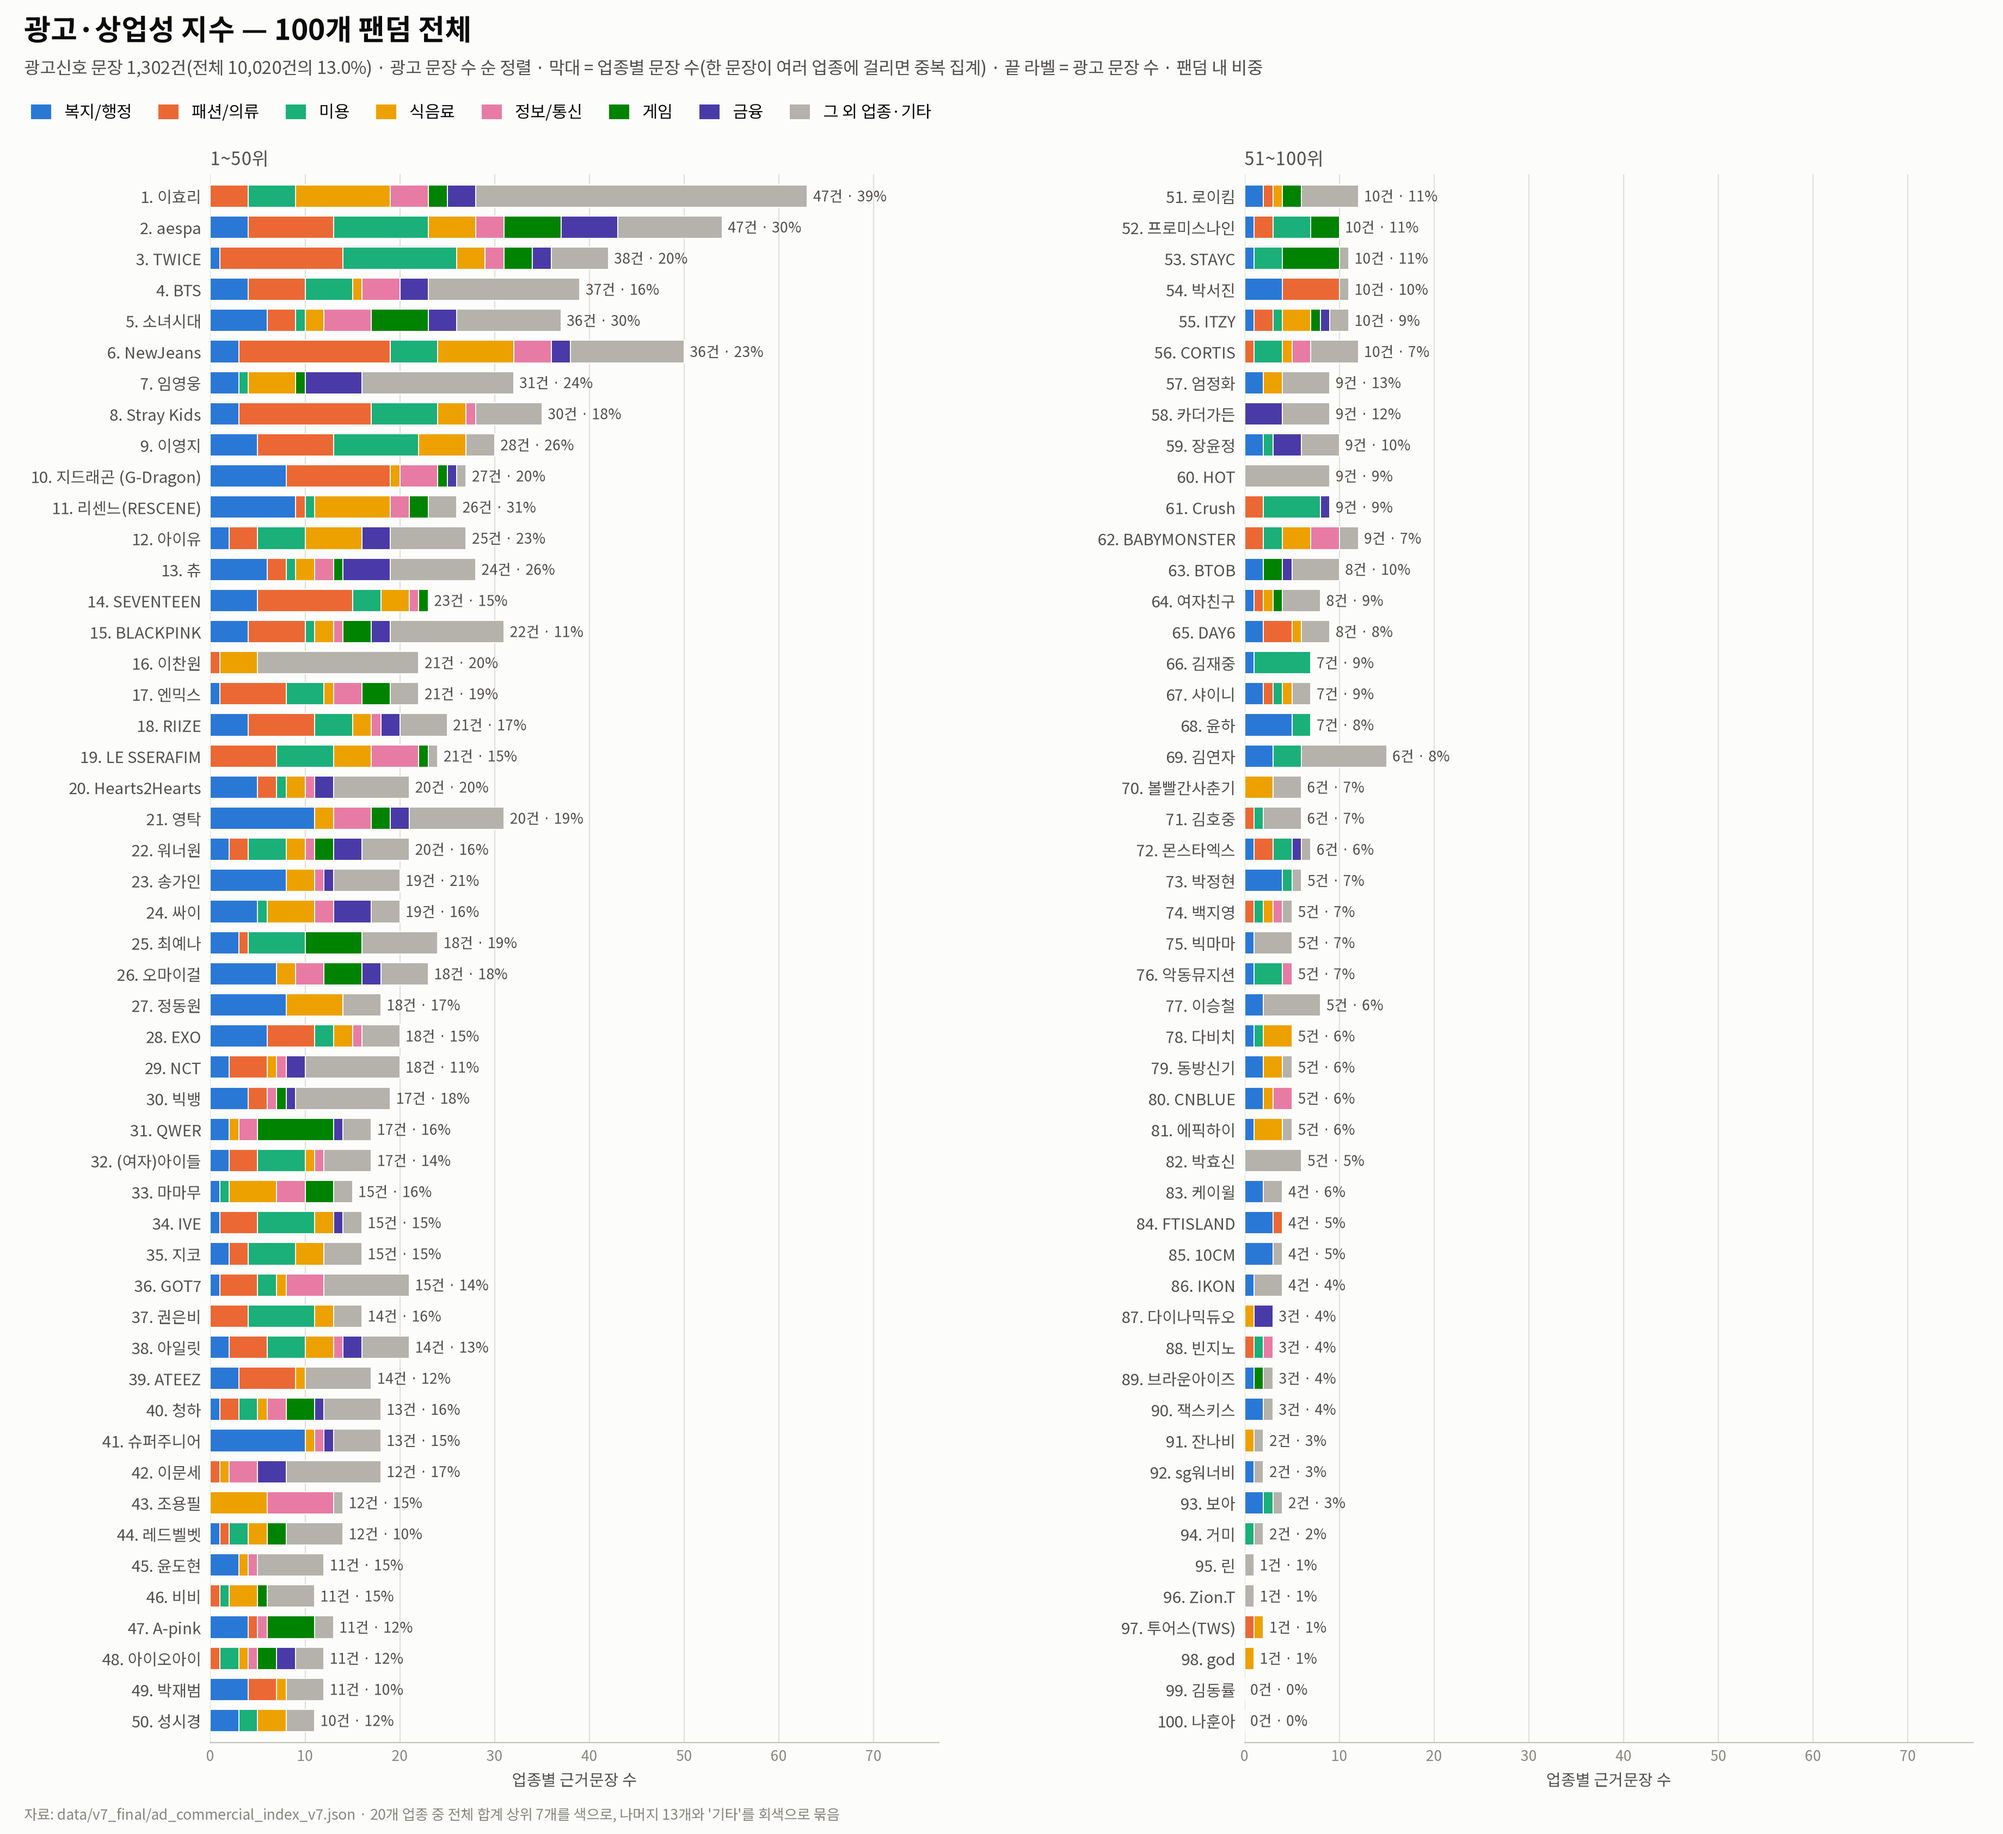
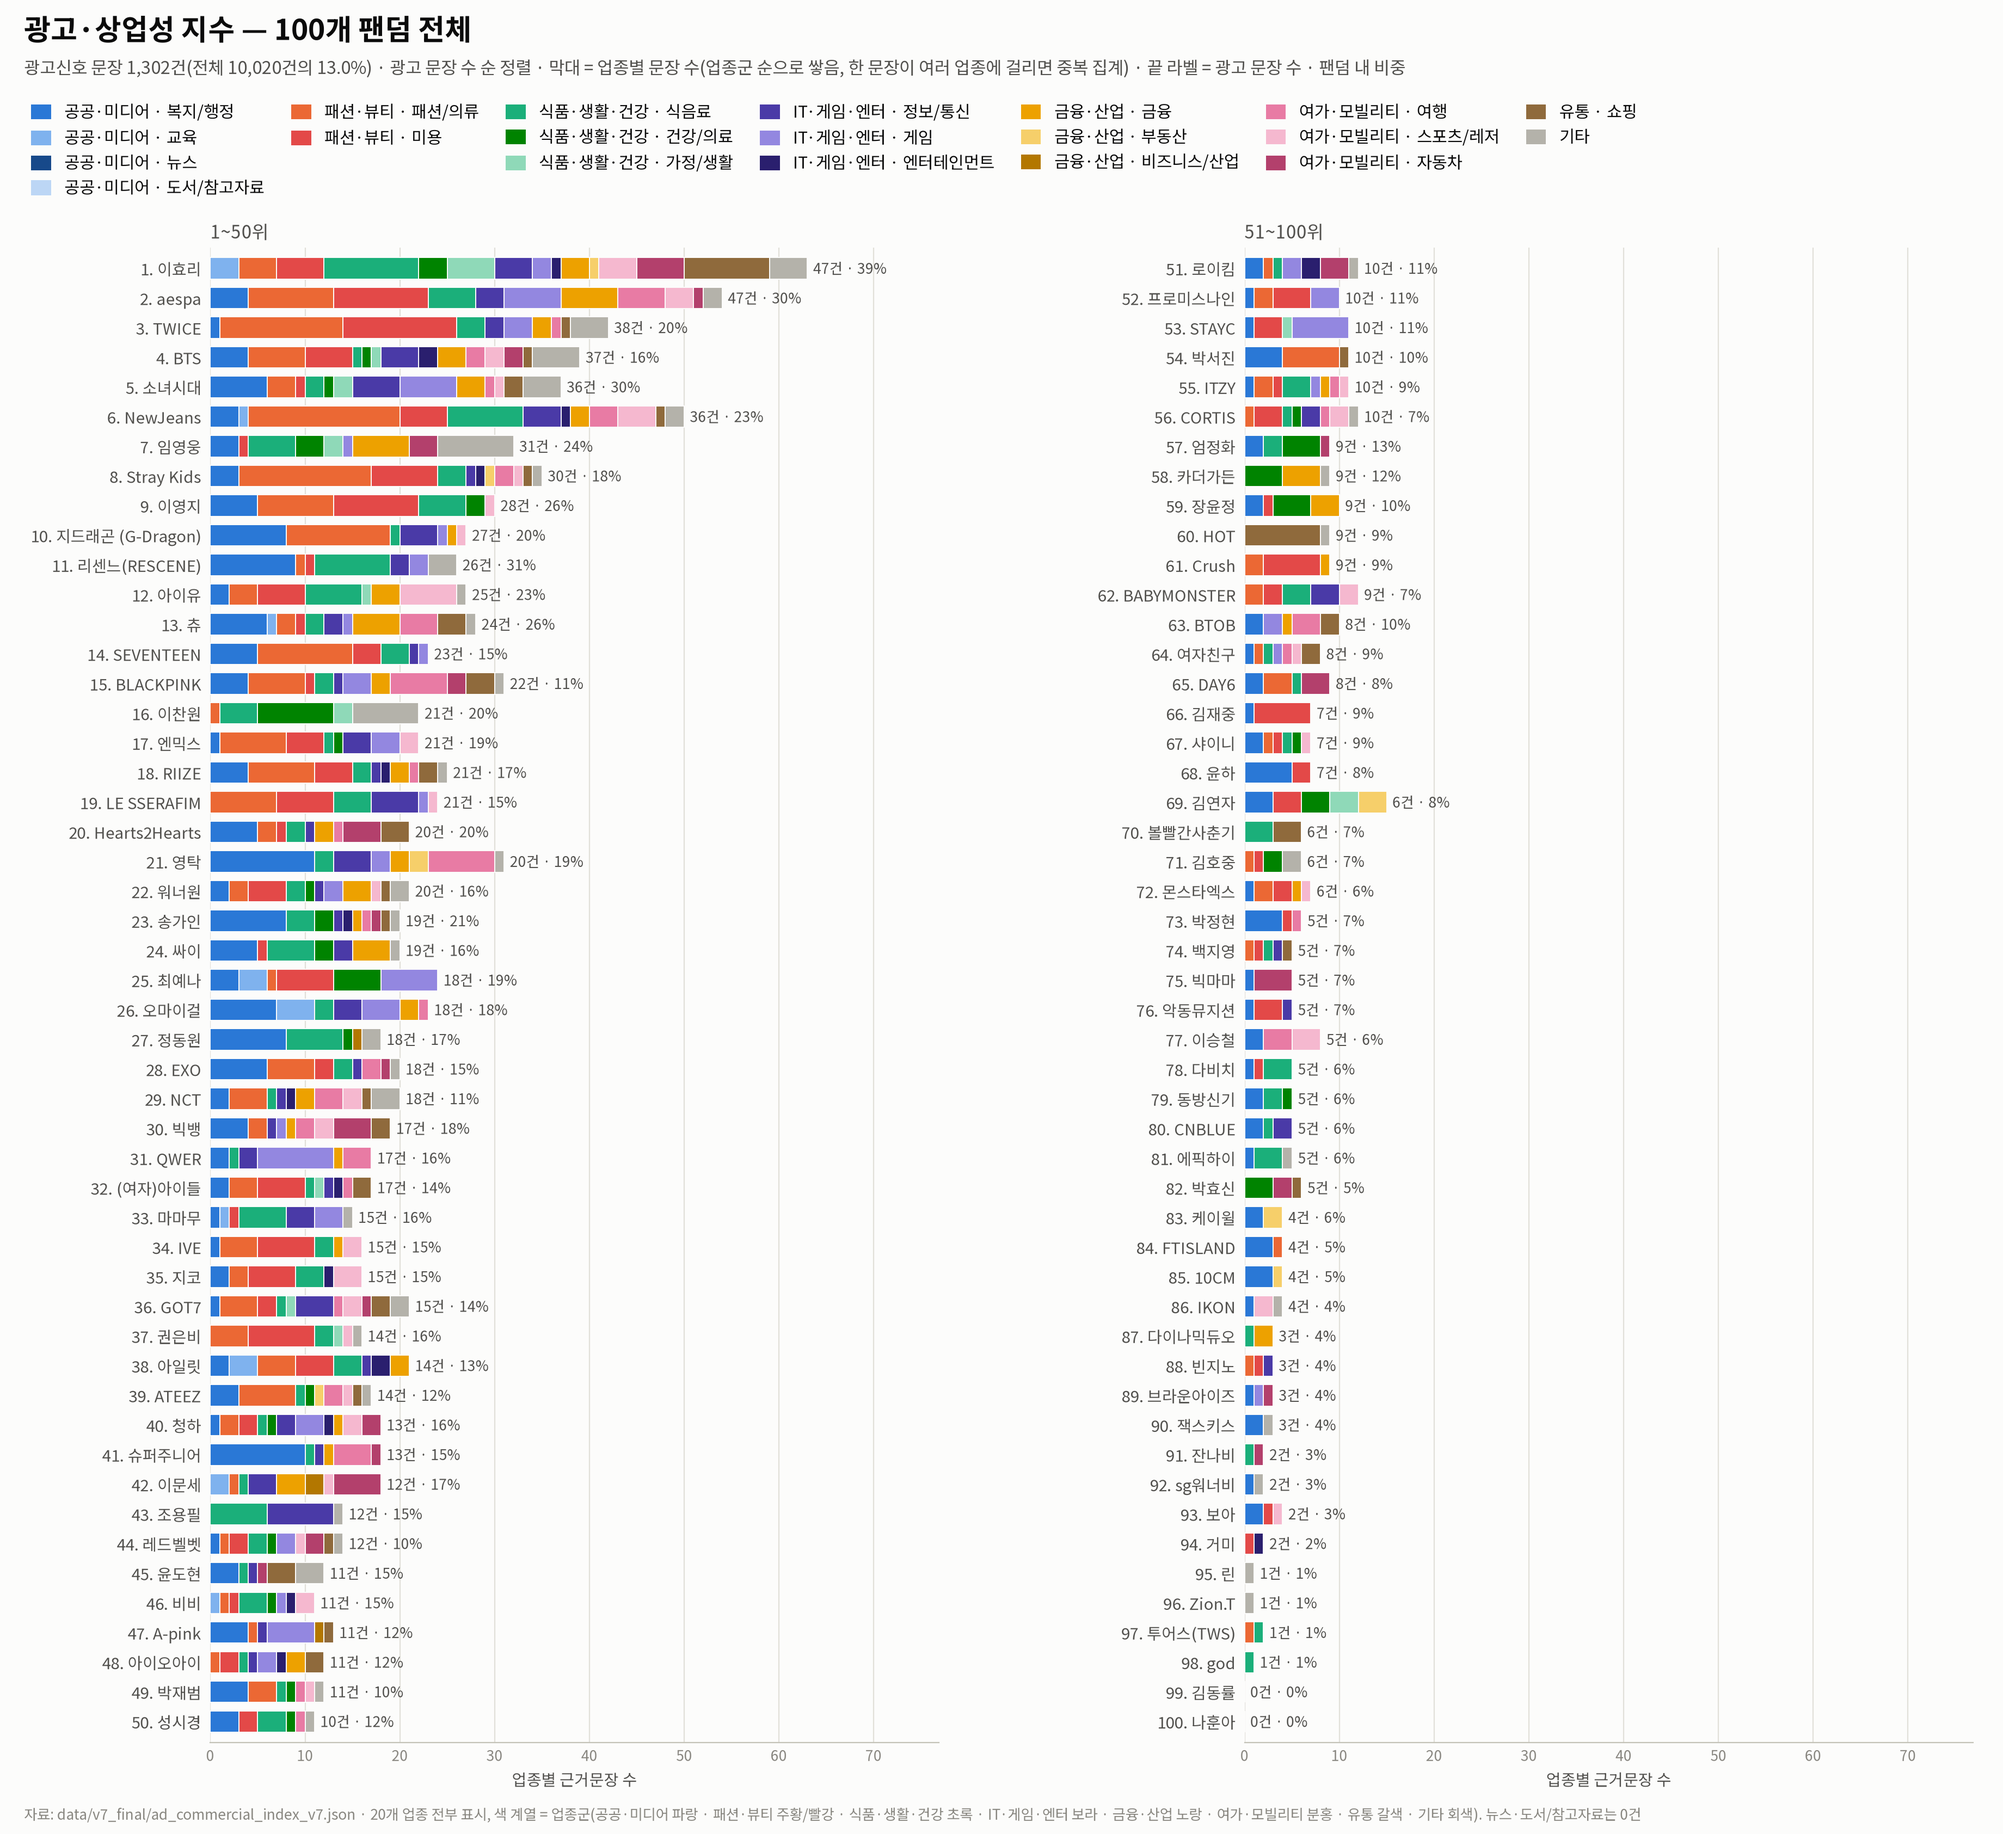
광고·상업성 지수 100개 팬덤 그래프: 20개 업종 전부 표시, 업종군별 색 계열 적용
공공·미디어(복지/행정·교육·뉴스·도서) 파랑, 패션·뷰티 주황/빨강, 식품·생활·건강 초록, IT·게임·엔터 보라,
금융·산업 노랑, 여가·모빌리티 분홍, 유통(쇼핑) 갈색, 기타 회색. 막대를 업종군 순서로 쌓고 범례를 업종군별 열로 배치.

Claude-Session: https://claude.ai/code/session_01VWuqhk8UFpTen2BecLssSX

Changed region(s): [[0.0, 0.0312, 0.7812, 0.9659], [0.2188, 0.9659, 0.4062, 0.997]]

diff --git a/v7_final_10020/charts/build_aux_indices_100_v7.py b/v7_final_10020/charts/build_aux_indices_100_v7.py
@@ -2,7 +2,7 @@
 """보조지표 7종 — 100개 팬덤 전체(멤버 집중도는 45개 그룹 전체) 그래프.
 README 6절의 그림은 상위 20·25개만 보여 주므로, 같은 지표를 전체 대상으로 다시 그려 assets/readme/100개_보조지표/ 에 저장한다.
 
-  aux1_ad_commercial_100.png        광고·상업성 지수 — 업종 구성(상위 7개 업종 + 그 외) 누적 막대, 끝 라벨 = 광고 문장 수·비중
+  aux1_ad_commercial_100.png        광고·상업성 지수 — 20개 업종 전부(업종군별 색 계열) 누적 막대, 끝 라벨 = 광고 문장 수·비중
   aux2_media_exposure_100.png       미디어·콘텐츠 노출 지수 — 예능·유튜브·영화·드라마 누적 막대
   aux3_fandom_cohesion_100.png      팬덤결속 지수 — 결속 유형 A~E 누적 막대
   aux4_media_crossover_100.png      매체 크로스오버 지수 — 서로 다른 뉴스 매체 수
@@ -134,22 +134,38 @@ def top_keys(totals, k=7):
 
 
 # ---- 1. 광고·상업성 ------------------------------------------------------------
+# 20개 업종 전부를 업종군별 색 계열로 칠한다(같은 업종군 = 같은 색상의 명도 단계, 막대도 업종군 순서로 쌓음).
 ad = load(D / "ad_commercial_index_v7.json")
-tot = {k: v for k, v in ad["industry_totals"].items() if k != "기타"}
-keys7 = top_keys(tot)
+AD_STYLE = [  # (업종군, 업종, 색)
+    ("공공·미디어", "복지/행정", "#2a78d6"), ("공공·미디어", "교육", "#7fb2ee"), ("공공·미디어", "뉴스", "#17498a"), ("공공·미디어", "도서/참고자료", "#bcd6f5"),
+    ("패션·뷰티", "패션/의류", "#eb6834"), ("패션·뷰티", "미용", "#e34948"),
+    ("식품·생활·건강", "식음료", "#1baf7a"), ("식품·생활·건강", "건강/의료", "#008300"), ("식품·생활·건강", "가정/생활", "#8fd9b8"),
+    ("IT·게임·엔터", "정보/통신", "#4a3aa7"), ("IT·게임·엔터", "게임", "#9387e0"), ("IT·게임·엔터", "엔터테인먼트", "#2a1f6e"),
+    ("금융·산업", "금융", "#eda100"), ("금융·산업", "부동산", "#f6cf6a"), ("금융·산업", "비즈니스/산업", "#b37700"),
+    ("여가·모빌리티", "여행", "#e87ba4"), ("여가·모빌리티", "스포츠/레저", "#f5b8cf"), ("여가·모빌리티", "자동차", "#b3406c"),
+    ("유통", "쇼핑", "#8f6a3c"),
+    ("기타", "기타", OTHER),
+]
+ad_keys = [k for _, k, _ in AD_STYLE]
+assert set(ad_keys) == set(ad["industries"]), "업종 목록이 바뀌면 AD_STYLE을 갱신하세요"
 rows = []
 for f in ad["fandoms"]:
     ic = f["industry_counts"]
-    v = {k: ic.get(k, 0) for k in keys7}
-    v["_other"] = sum(c for k, c in ic.items() if k not in keys7)
-    rows.append((f["fandom"], v, (f["n_ad_bullets"], f["ad_share"]), f))
+    rows.append((f["fandom"], {k: ic.get(k, 0) for k in ad_keys}, (f["n_ad_bullets"], f["ad_share"])))
 rows.sort(key=lambda r: (-r[2][0], -r[2][1], r[0]))
-stacked_100([r[:3] for r in rows], keys7 + ["_other"], SERIES + [OTHER], keys7 + ["그 외 업종·기타"],
+groups = []
+for i, (g, _, _) in enumerate(AD_STYLE):
+    if not groups or groups[-1][0] != g:
+        groups.append((g, []))
+    groups[-1][1].append(i)
+stacked_100(rows, ad_keys, [c for _, _, c in AD_STYLE],
+            [k if g == k else f"{g} · {k}" for g, k, _ in AD_STYLE],
             lambda r: f"{r[2][0]}건 · {r[2][1] * 100:.0f}%",
             "광고·상업성 지수 — 100개 팬덤 전체",
-            f"광고신호 문장 {ad['total_ad_bullets']:,}건(전체 {ad['total_bullets']:,}건의 {ad['corpus_ad_share'] * 100:.1f}%) · 광고 문장 수 순 정렬 · 막대 = 업종별 문장 수(한 문장이 여러 업종에 걸리면 중복 집계) · 끝 라벨 = 광고 문장 수 · 팬덤 내 비중",
-            "업종별 근거문장 수", "자료: data/v7_final/ad_commercial_index_v7.json · 20개 업종 중 전체 합계 상위 7개를 색으로, 나머지 13개와 '기타'를 회색으로 묶음",
-            "aux1_ad_commercial_100.png")
+            f"광고신호 문장 {ad['total_ad_bullets']:,}건(전체 {ad['total_bullets']:,}건의 {ad['corpus_ad_share'] * 100:.1f}%) · 광고 문장 수 순 정렬 · 막대 = 업종별 문장 수(업종군 순으로 쌓음, 한 문장이 여러 업종에 걸리면 중복 집계) · 끝 라벨 = 광고 문장 수 · 팬덤 내 비중",
+            "업종별 근거문장 수",
+            "자료: data/v7_final/ad_commercial_index_v7.json · 20개 업종 전부 표시, 색 계열 = 업종군(공공·미디어 파랑 · 패션·뷰티 주황/빨강 · 식품·생활·건강 초록 · IT·게임·엔터 보라 · 금융·산업 노랑 · 여가·모빌리티 분홍 · 유통 갈색 · 기타 회색). 뉴스·도서/참고자료는 0건",
+            "aux1_ad_commercial_100.png", top=0.865, legend_columns=[idx for _, idx in groups[:-2]] + [groups[-2][1] + groups[-1][1]])
 
 # ---- 2. 미디어·콘텐츠 노출 ------------------------------------------------------
 me = load(D / "media_exposure_v7.json")
